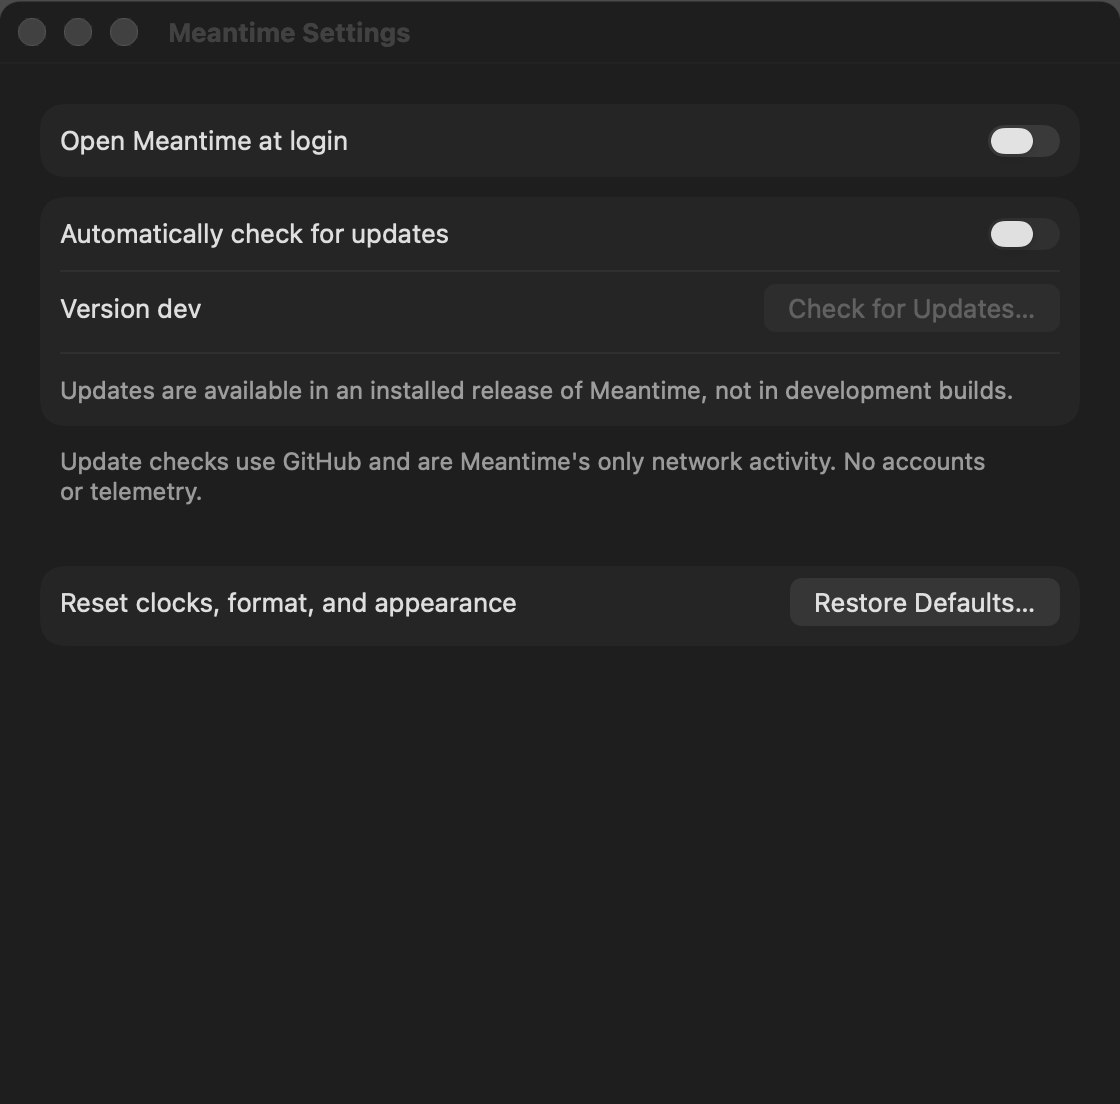
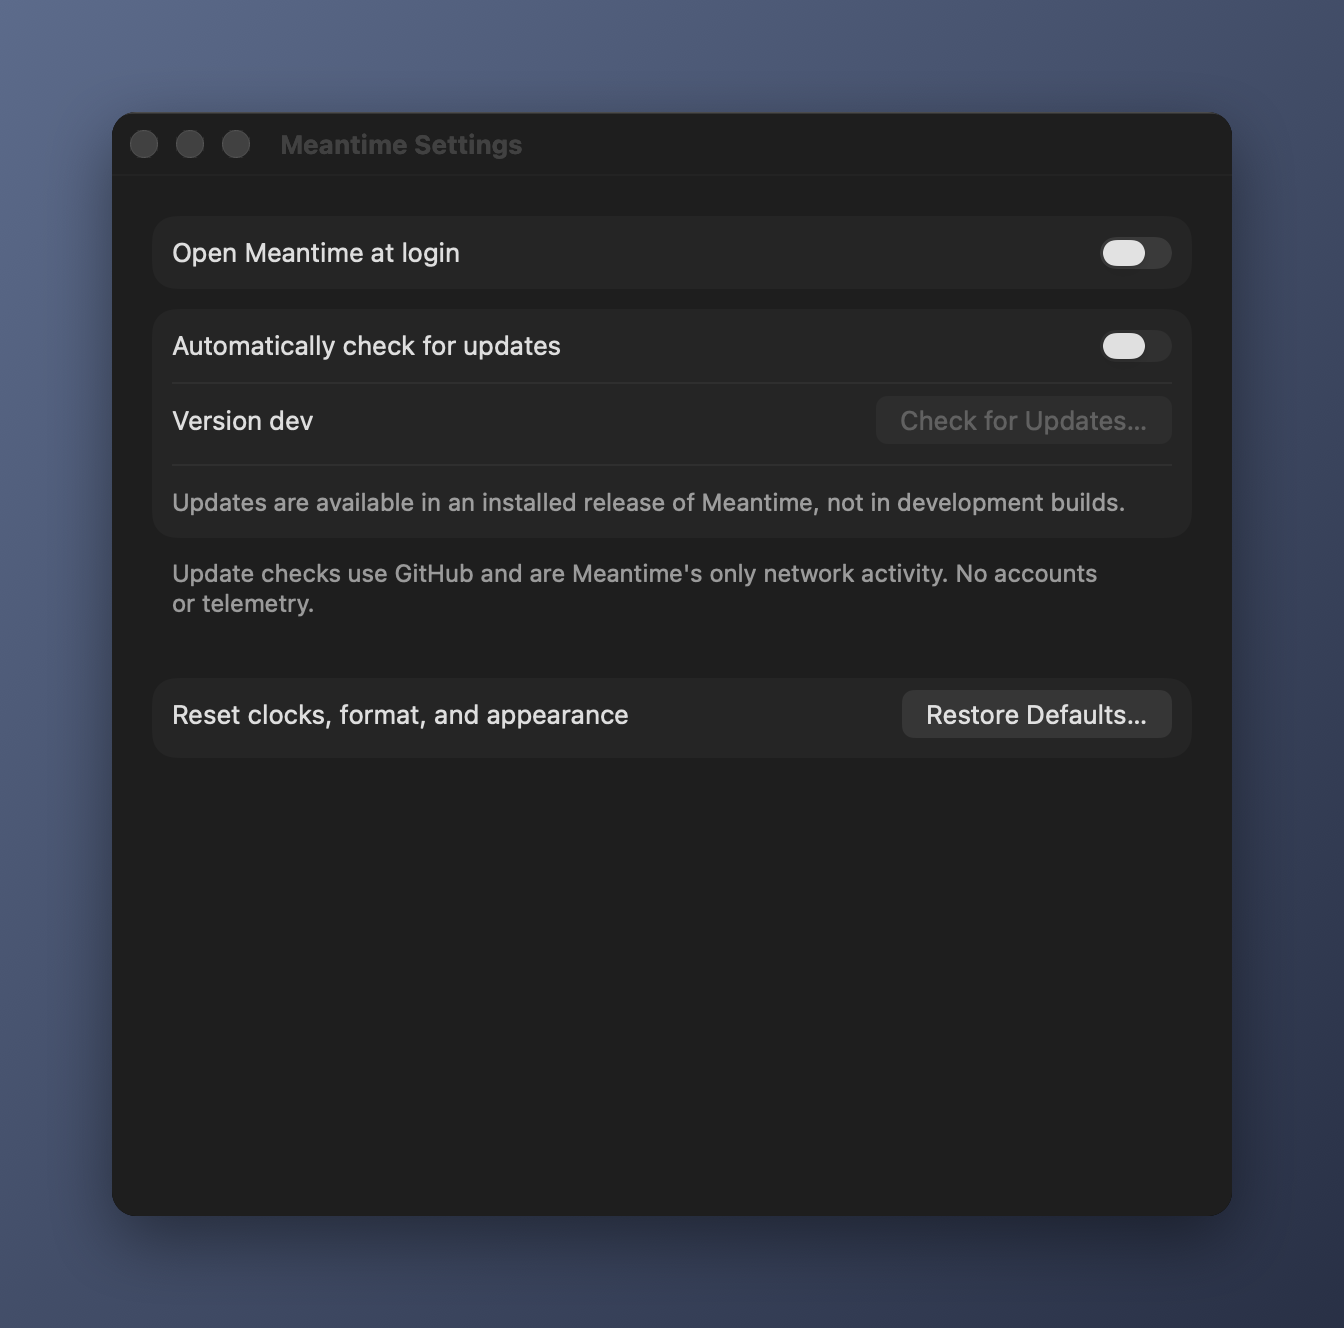
fix(ui): fix menu-bar flags, search field, add-clock back, framed screenshots (1.2.2)
- Fix menu-bar leading flags splitting into boxed letters: the element-spacing gap is
  applied after the adornment, never inside its regional-indicator cluster.
- Stop the time-zone search field from dropping the first keystrokes by syncing its
  value only while it is not being edited.
- Restore double-click on a clock row to open its editor, with the disclosure chevron
  and single-click selection intact.
- Give the Add-clock picker the same top-left back control as the editor.
- Drop the redundant "Preview" label in the clock editor.
- Pin the website format builder's live preview and pattern input while the token
  reference scrolls.
- Frame documentation screenshots on a soft backdrop with a drop shadow instead of a
  flat opaque window, and refresh them.

diff --git a/Sources/Meantime/App/ScreenshotCapture.swift b/Sources/Meantime/App/ScreenshotCapture.swift
@@ -82,7 +82,7 @@ enum ScreenshotCapture {
             throw CaptureError.missingWindowFrame
         }
         frameView.layoutSubtreeIfNeeded()
-        try writePNG(of: frameView, to: destination)
+        try writePNG(of: frameView, framed: true, cornerRadius: 12, to: destination)
     }
 
     private static func renderHostingView<Content: View>(
@@ -93,7 +93,7 @@ enum ScreenshotCapture {
         hosting.appearance = NSAppearance(named: .darkAqua)
         hosting.frame.size = hosting.fittingSize
         hosting.layoutSubtreeIfNeeded()
-        try writePNG(of: hosting, to: destination)
+        try writePNG(of: hosting, framed: true, cornerRadius: Token.Radius.panel, to: destination)
     }
 
     private static func renderMenuBar(title: NSAttributedString, to destination: URL) throws {
@@ -114,28 +114,78 @@ enum ScreenshotCapture {
         try writePNG(of: effect, to: destination)
     }
 
-    private static func writePNG(of view: NSView, to destination: URL) throws {
-        view.layoutSubtreeIfNeeded()
-        let bounds = view.bounds
-        guard bounds.width > 0, bounds.height > 0,
-              let bitmap = NSBitmapImageRep(
-                bitmapDataPlanes: nil,
-                pixelsWide: Int(ceil(bounds.width * scale)),
-                pixelsHigh: Int(ceil(bounds.height * scale)),
-                bitsPerSample: 8,
-                samplesPerPixel: 4,
-                hasAlpha: true,
-                isPlanar: false,
-                colorSpaceName: .deviceRGB,
-                bytesPerRow: 0,
-                bitsPerPixel: 0)
-        else { throw CaptureError.invalidBounds }
-        bitmap.size = bounds.size
-        view.cacheDisplay(in: bounds, to: bitmap)
-        guard let data = bitmap.representation(using: .png, properties: [:]) else {
+    private static func writePNG(of view: NSView, framed: Bool = false,
+                                 cornerRadius: CGFloat = 0, to destination: URL) throws {
+        let captured = try bitmap(of: view)
+        let output = framed ? presentationFrame(captured, cornerRadius: cornerRadius) : captured
+        guard let data = output.representation(using: .png, properties: [:]) else {
             throw CaptureError.encodingFailed
         }
         try data.write(to: destination, options: .atomic)
+    }
+
+    private static func bitmap(of view: NSView) throws -> NSBitmapImageRep {
+        view.layoutSubtreeIfNeeded()
+        let bounds = view.bounds
+        guard bounds.width > 0, bounds.height > 0,
+              let bitmap = newBitmap(pointSize: bounds.size)
+        else { throw CaptureError.invalidBounds }
+        view.cacheDisplay(in: bounds, to: bitmap)
+        return bitmap
+    }
+
+    private static func newBitmap(pointSize: NSSize) -> NSBitmapImageRep? {
+        let rep = NSBitmapImageRep(
+            bitmapDataPlanes: nil,
+            pixelsWide: Int(ceil(pointSize.width * scale)),
+            pixelsHigh: Int(ceil(pointSize.height * scale)),
+            bitsPerSample: 8, samplesPerPixel: 4, hasAlpha: true, isPlanar: false,
+            colorSpaceName: .deviceRGB, bytesPerRow: 0, bitsPerPixel: 0)
+        rep?.size = pointSize
+        return rep
+    }
+
+    /// Frames a captured surface on a soft gradient with a drop shadow and rounded corners,
+    /// so documentation reads as a presentation shot rather than a flat, opaque system
+    /// window. Offscreen capture cannot composite the real desktop, so this substitutes a
+    /// deliberate backdrop instead.
+    private static func presentationFrame(_ inner: NSBitmapImageRep,
+                                          cornerRadius: CGFloat) -> NSBitmapImageRep {
+        let pad: CGFloat = 56
+        let innerSize = inner.size
+        let canvas = NSSize(width: innerSize.width + pad * 2, height: innerSize.height + pad * 2)
+        guard let out = newBitmap(pointSize: canvas),
+              let ctx = NSGraphicsContext(bitmapImageRep: out) else { return inner }
+
+        NSGraphicsContext.saveGraphicsState()
+        NSGraphicsContext.current = ctx
+        let cg = ctx.cgContext
+
+        let top = NSColor(calibratedRed: 0.29, green: 0.34, blue: 0.47, alpha: 1).cgColor
+        let bottom = NSColor(calibratedRed: 0.12, green: 0.14, blue: 0.21, alpha: 1).cgColor
+        if let gradient = CGGradient(colorsSpace: CGColorSpaceCreateDeviceRGB(),
+                                     colors: [top, bottom] as CFArray, locations: [0, 1]) {
+            cg.drawLinearGradient(gradient, start: CGPoint(x: 0, y: canvas.height),
+                                  end: CGPoint(x: canvas.width, y: 0), options: [])
+        }
+
+        let innerRect = NSRect(x: pad, y: pad, width: innerSize.width, height: innerSize.height)
+        let rounded = NSBezierPath(roundedRect: innerRect, xRadius: cornerRadius, yRadius: cornerRadius)
+
+        cg.saveGState()
+        cg.setShadow(offset: CGSize(width: 0, height: -12), blur: 36,
+                     color: NSColor.black.withAlphaComponent(0.42).cgColor)
+        NSColor.black.setFill()
+        rounded.fill()
+        cg.restoreGState()
+
+        NSGraphicsContext.saveGraphicsState()
+        rounded.addClip()
+        inner.draw(in: innerRect)
+        NSGraphicsContext.restoreGraphicsState()
+
+        NSGraphicsContext.restoreGraphicsState()
+        return out
     }
 
     private enum CaptureError: Error {

diff --git a/Sources/Meantime/Settings/TimeZonePickerView.swift b/Sources/Meantime/Settings/TimeZonePickerView.swift
@@ -32,29 +32,27 @@ struct TimeZonePickerView: View {
             } else {
                 zoneList
             }
-            Divider()
-            footer
         }
         .onAppear {
             entries = TimeZoneCatalog.entries()
         }
     }
 
+    /// A top-left back control, matching the clock editor, so every step of the Add flow
+    /// (list -> picker -> editor) returns to the previous one from the same place.
     private var header: some View {
         VStack(alignment: .leading, spacing: Token.Space.sm) {
+            HStack {
+                Button(action: onCancel) {
+                    Label("Clocks", systemImage: "chevron.left")
+                }
+                .buttonStyle(.link)
+                .keyboardShortcut(.cancelAction)
+                .accessibilityLabel("Back to Clocks")
+                Spacer()
+            }
             Text("Choose a Time Zone").font(.headline)
             SearchField(text: $query, prompt: "City, time zone, or abbreviation")
-        }
-        .padding(Token.Space.lg)
-    }
-
-    /// Dismissal lives in a bottom action bar, so the exit control stays in the same
-    /// place across the Add flow (list → picker → editor) instead of jumping corners.
-    private var footer: some View {
-        HStack {
-            Button("Cancel", action: onCancel)
-                .keyboardShortcut(.cancelAction)
-            Spacer()
         }
         .padding(Token.Space.lg)
     }

diff --git a/Sources/Meantime/MenuBar/StatusItemTitle.swift b/Sources/Meantime/MenuBar/StatusItemTitle.swift
@@ -26,10 +26,15 @@ enum StatusItemTitle {
         let result = NSMutableAttributedString()
 
         if let adornment, !adornment.isEmpty {
-            // The gap belongs after the adornment, not between its letters, so a
-            // multi-character leading text ("br") reads as one word rather than "b r".
-            result.append(run(adornment, font: NSFont.systemFont(ofSize: textSize),
-                              trailingKern: spacing + Token.Space.xxs))
+            // Append the adornment with no internal kerning. Kerning applied inside the
+            // adornment lands within a regional-indicator flag (or any emoji cluster) and
+            // splits it into boxed letters. The gap belongs after it, as a separate spacer.
+            result.append(NSAttributedString(
+                string: adornment, attributes: [.font: NSFont.systemFont(ofSize: textSize)]))
+            result.append(NSAttributedString(string: " ", attributes: [
+                .font: NSFont.systemFont(ofSize: textSize),
+                .kern: spacing,
+            ]))
         }
 
         result.append(NSAttributedString(string: time, attributes: [

diff --git a/docs/styles/main.css b/docs/styles/main.css
@@ -126,6 +126,17 @@ h2 { font-size: clamp(1.5rem, 3.4vw, 2rem); line-height: 1.18; margin: 0.2rem 0 
 .builder-page { padding-top: 2rem; }
 .builder-intro { max-width: 36rem; margin: 0 auto; }
 .builder { max-width: 720px; margin: 0 auto; text-align: left; }
+/* Keep the live preview and the pattern input in view while the token reference
+   below scrolls, so the effect of every change stays visible. */
+.builder-sticky {
+  position: sticky;
+  top: 0;
+  z-index: 5;
+  background: var(--bg);
+  padding-block: 1.4rem 1rem;
+}
+.builder-sticky .preview-card { margin-top: 0; }
+.builder-sticky .pattern-row { margin-bottom: 0; }
 .preview-card {
   background: var(--surface); border: 1px solid var(--border);
   border-radius: var(--radius); box-shadow: var(--shadow);

diff --git a/Sources/Meantime/Settings/SearchField.swift b/Sources/Meantime/Settings/SearchField.swift
@@ -20,10 +20,12 @@ struct SearchField: NSViewRepresentable {
     }
 
     func updateNSView(_ nsView: NSSearchField, context: Context) {
-        if nsView.stringValue != text {
+        nsView.placeholderString = prompt
+        // Only sync the value when the field is not being edited. Rewriting stringValue
+        // mid-edit resets the field editor and drops the first (or first few) keystrokes.
+        if nsView.currentEditor() == nil, nsView.stringValue != text {
             nsView.stringValue = text
         }
-        nsView.placeholderString = prompt
         guard focusesOnAppear, !context.coordinator.didFocus, let window = nsView.window else {
             return
         }

diff --git a/docs/format.html b/docs/format.html
@@ -34,6 +34,7 @@
       </p>
 
       <div class="builder">
+        <div class="builder-sticky">
         <div class="preview-card" aria-live="polite">
           <div class="preview-time" id="preview">05:04</div>
           <p class="preview-caption">Example date and time: August 8, 2026 at 5:04:09 AM</p>
@@ -57,6 +58,7 @@
                  aria-label="Unicode date and time pattern" value="HH:mm">
           <button class="builder-button" id="clear" type="button">Clear</button>
           <button class="builder-button primary" id="copy" type="button">Copy</button>
+        </div>
         </div>
 
         <div class="builder-groups" aria-label="Pattern fields and separators">

diff --git a/Sources/Meantime/Settings/ClockEditorSheet.swift b/Sources/Meantime/Settings/ClockEditorSheet.swift
@@ -257,11 +257,6 @@ private struct EditorPreview: View {
         Grid(alignment: .leading, horizontalSpacing: Token.Space.md,
              verticalSpacing: Token.Space.sm) {
             GridRow {
-                Text("Preview")
-                    .font(.headline)
-                    .gridCellColumns(2)
-            }
-            GridRow {
                 previewContent
                     .frame(maxWidth: .infinity, alignment: .leading)
                 Text(status)

diff --git a/Sources/Meantime/Settings/ClocksPane.swift b/Sources/Meantime/Settings/ClocksPane.swift
@@ -91,6 +91,10 @@ struct ClocksPane: View {
                     editingSession.beginEditing(clock)
                 }
                     .tag(clock.id)
+                    .onTapGesture(count: 2) {
+                        selectedIDs = [clock.id]
+                        editingSession.beginEditing(clock)
+                    }
                     .contextMenu {
                         Button("Edit…") {
                             selectedIDs = [clock.id]

diff --git a/CHANGELOG.md b/CHANGELOG.md
@@ -4,6 +4,21 @@ All notable changes to Meantime are documented here. The format follows
 [Keep a Changelog](https://keepachangelog.com/en/1.1.0/), and the project
 adheres to [Semantic Versioning](https://semver.org/spec/v2.0.0.html).
 
+## [1.2.2] - 2026-07-24
+
+### Fixed
+
+- Menu-bar leading flags no longer split into boxed letters; the element-spacing gap is applied after the adornment rather than inside its regional-indicator cluster.
+- The time-zone search field no longer drops the first keystrokes; its value is synced only while it is not being edited.
+
+### Changed
+
+- Double-click a clock row to open its editor, alongside the disclosure chevron and single-click selection.
+- The Add-clock time-zone picker uses the same top-left back control as the editor.
+- The clock editor no longer shows a redundant "Preview" label.
+- The website format builder keeps the live preview and pattern input pinned while the token reference scrolls.
+- Documentation screenshots are framed on a soft backdrop with a drop shadow instead of a flat opaque window.
+
 ## [1.2.1] - 2026-07-23
 
 ### Fixed
